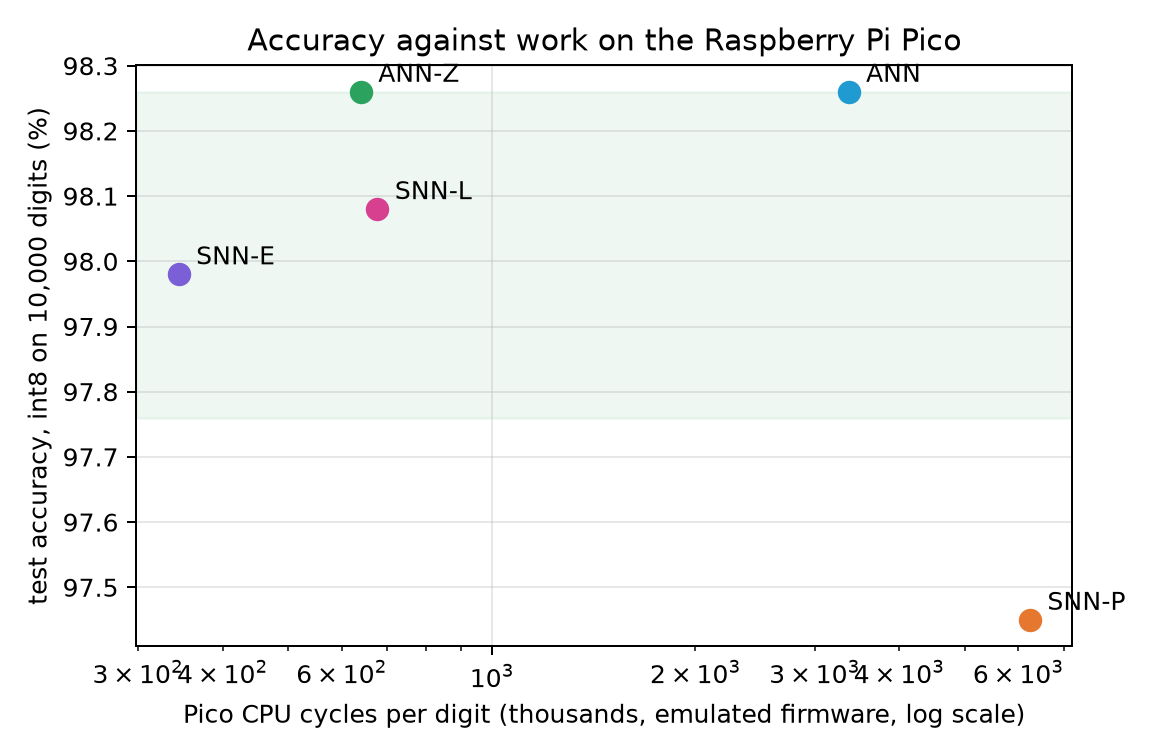
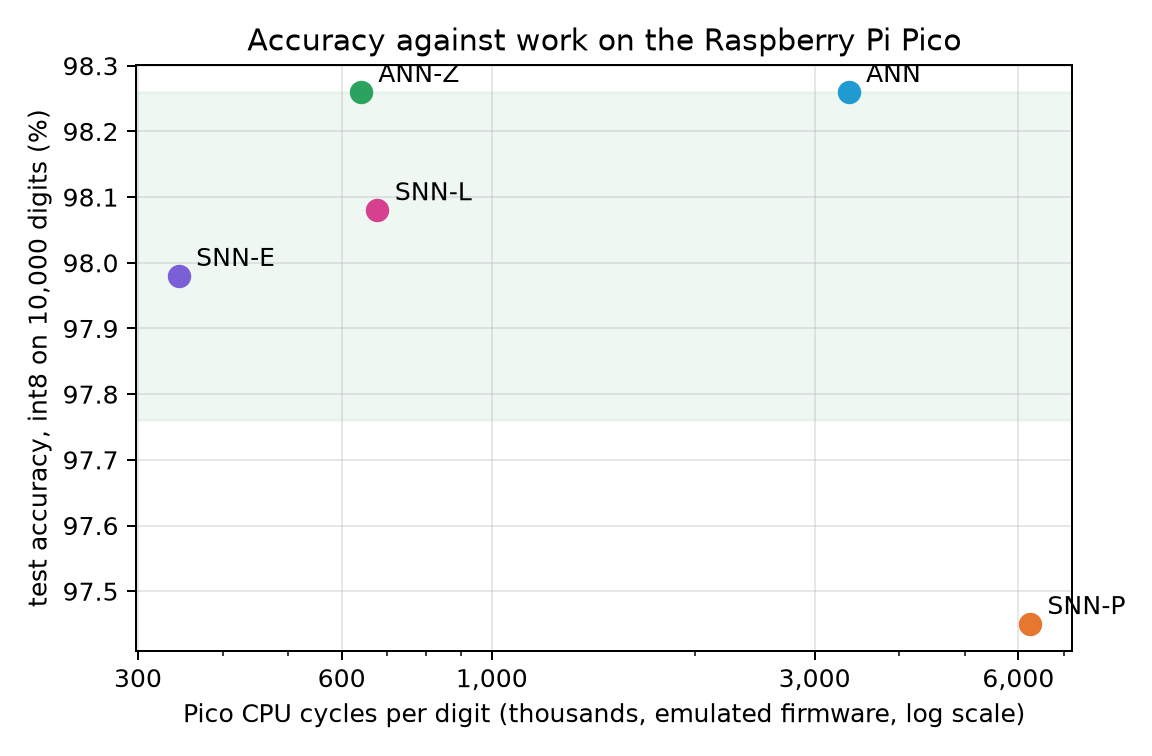
Five-seed repeatability: gap 0.35 +/- 0.12 points, SNN-E work 0.579x +/- 0.003 of ANN-Z
Claude-Session: https://claude.ai/code/session_017YgzHzYqEEhX5vuF6iEM4L

diff --git a/silicon-neuron-demo/training/prove.py b/silicon-neuron-demo/training/prove.py
@@ -211,7 +211,9 @@ def main():
           "![break-even](fig_break_even.png)", "", "![pareto](fig_pareto.png)", "",
           "![per digit](fig_per_digit.png)", "", "![early exit](fig_early_exit.png)", ""]
     if os.path.exists(repro):
-        L += ["## 5. Repeatability", ""] + open(repro).read().splitlines()[2:]
+        L += ["## 5. Repeatability", ""] + open(repro).read().splitlines()[2:] + [
+            "", "The deployed SNN-E is seed 0 of this table (its gap, 0.28 points, is on the good side of the "
+            "five-seed mean, 0.35); quote the five-seed mean +/- sd as the result of the method."]
     open(os.path.join(RES, "PROOF.md"), "w").write("\n".join(L) + "\n")
     print("\n".join(L[:40]))
 

diff --git a/silicon-neuron-demo/results/PROOF.md b/silicon-neuron-demo/results/PROOF.md
@@ -52,3 +52,19 @@ On custom 45 nm silicon an addition costs about a seventh of a multiply-add, so 
 
 ![early exit](fig_early_exit.png)
 
+## 5. Repeatability
+
+Test accuracy is the int8 model the Pico runs, on all 10,000 MNIST test images, evaluated once per seed.
+
+| quantity | mean +/- sd (95% CI) |
+|---|---|
+| ANN accuracy | 98.19% +/- 0.05 (95% CI 98.13 to 98.26) |
+| SNN-E accuracy | 97.84% +/- 0.12 (95% CI 97.69 to 97.99) |
+| accuracy gap ANN - SNN-E (points) | 0.35 pts +/- 0.12 (95% CI 0.21 to 0.50) |
+| SNN-E Pico cycles / ANN-Z Pico cycles | 0.579x +/- 0.003 (95% CI 0.574 to 0.583) |
+| SNN-E mean time steps used (of 8) | 1.36 +/- 0.08 (95% CI 1.25 to 1.46) |
+
+Cycle counts here use the hand model (energy_model.py, within ~4-9% of the emulator, always low);
+the ratio between models is what is compared. Manifest (versions, data and code hashes): repro.json.
+
+The deployed SNN-E is seed 0 of this table (its gap, 0.28 points, is on the good side of the five-seed mean, 0.35); quote the five-seed mean +/- sd as the result of the method.

diff --git a/silicon-neuron-demo/results/repro.md b/silicon-neuron-demo/results/repro.md
@@ -1,0 +1,14 @@
+# Repeatability: 5 independent training runs (seeds 0, 1, 2, 3, 4)
+
+Test accuracy is the int8 model the Pico runs, on all 10,000 MNIST test images, evaluated once per seed.
+
+| quantity | mean +/- sd (95% CI) |
+|---|---|
+| ANN accuracy | 98.19% +/- 0.05 (95% CI 98.13 to 98.26) |
+| SNN-E accuracy | 97.84% +/- 0.12 (95% CI 97.69 to 97.99) |
+| accuracy gap ANN - SNN-E (points) | 0.35 pts +/- 0.12 (95% CI 0.21 to 0.50) |
+| SNN-E Pico cycles / ANN-Z Pico cycles | 0.579x +/- 0.003 (95% CI 0.574 to 0.583) |
+| SNN-E mean time steps used (of 8) | 1.36 +/- 0.08 (95% CI 1.25 to 1.46) |
+
+Cycle counts here use the hand model (energy_model.py, within ~4-9% of the emulator, always low);
+the ratio between models is what is compared. Manifest (versions, data and code hashes): repro.json.
